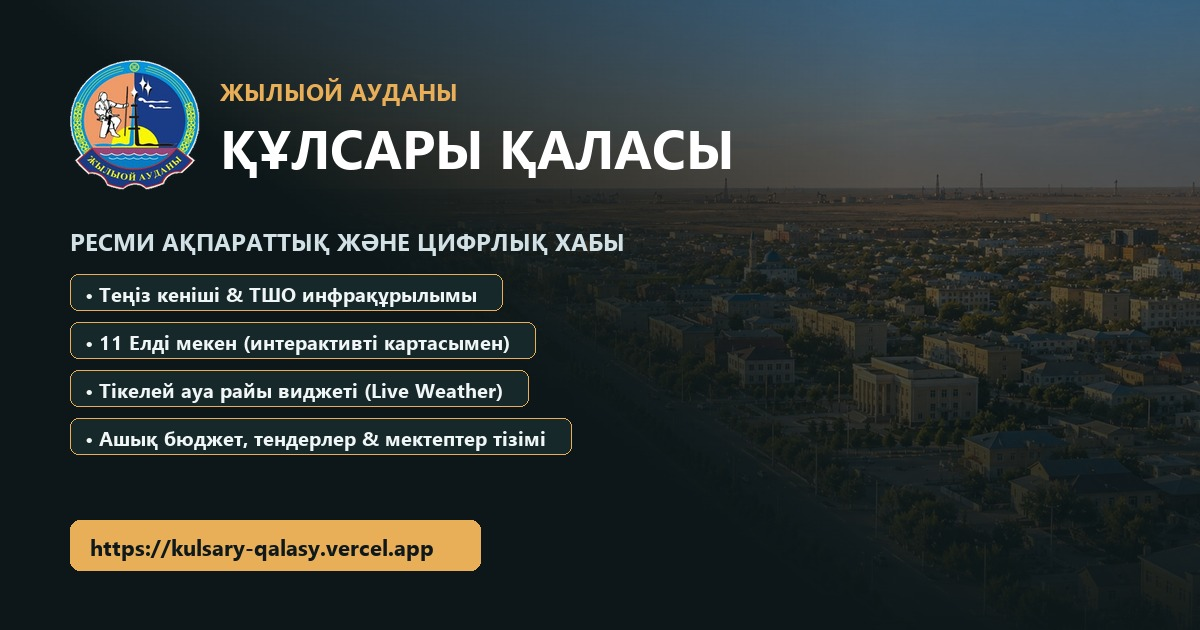
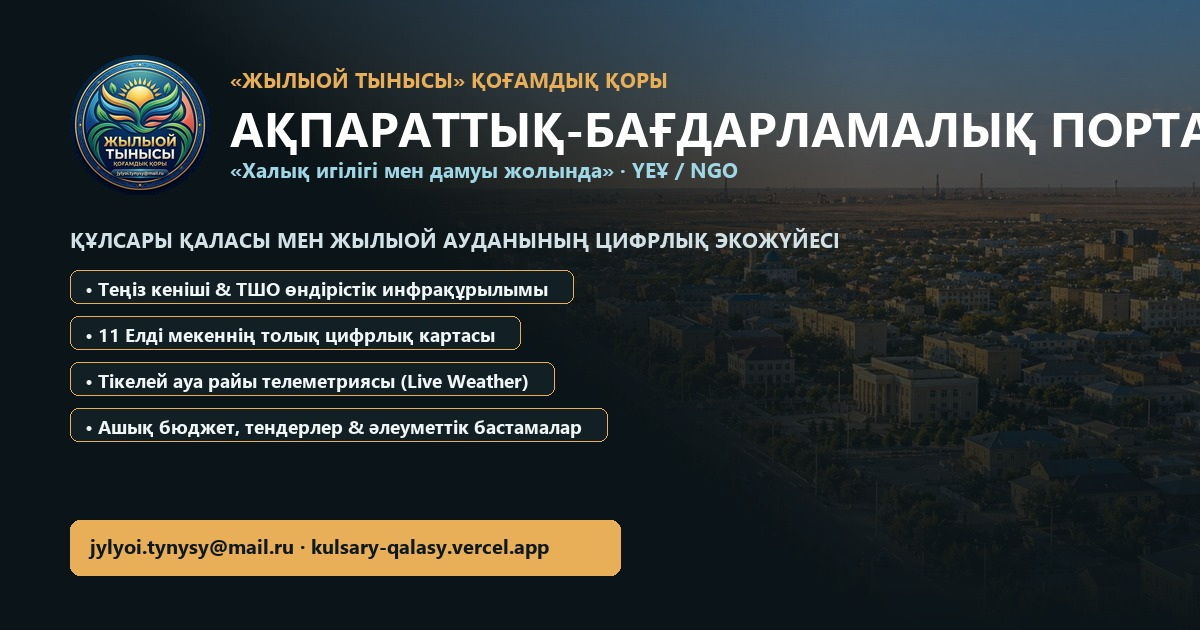
feat: rebrand to Zhylyoi Tynysy public foundation information-software platform, add official emblem, cards, and contact email

Changed region(s): [[0.0617, 0.3619, 0.7092, 0.7238], [0.0308, 0.0905, 1.0, 0.3016], [0.0617, 0.8143, 0.5242, 0.9349]]

diff --git a/src/i18n/translations.ts b/src/i18n/translations.ts
@@ -160,11 +160,11 @@ export const translations: Record<Language, Translations> = {
       toTop: "Жоғарыға",
     },
     hero: {
-      eyebrow: "Атырау облысы · Жылыой ауданы",
-      brandName: "Құлсары",
-      statement: "— Мұнайлы өлке жүрегі, тарих пен болашақ тоғысқан мекен!",
-      description: "Қасиетті мекеннен бүгінгі қала өміріне дейін - Құлсарыны бір жерден таныңыз.",
-      exploreBtn: "Қаланы таныңыз",
+      eyebrow: "«ЖЫЛЫОЙ ТЫНЫСЫ» ҚОҒАМДЫҚ ҚОРЫ · АҚПАРАТТЫҚ-БАҒДАРЛАМАЛЫҚ ПОРТАЛ",
+      brandName: "Жылыой Тынысы",
+      statement: "— Халық игілігі мен дамуы жолындағы цифрлық экожүйе!",
+      description: "Құлсары қаласы мен Жылыой ауданының біртұтас ақпараттық-бағдарламалық цифрлық порталы. Мұнайлы өлке тынысы, нақты деректер, ашық бюджет, 11 елді мекен және қоғамдық қызметтер бір жерде.",
+      exploreBtn: "Порталды танып-білу",
       mapBtn: "Картадан қарау",
       scrollDown: "ТӨМЕН ҚАРАЙ",
     },
@@ -326,14 +326,14 @@ export const translations: Record<Language, Translations> = {
       desc: "Ресми парақшалар, жергілікті жаңалықтар мен пайдалы арналар. Жеке топтарға қосыларда сілтемесін тексеріңіз.",
     },
     footer: {
-      title: "Жолымыз",
-      titleEm: "Құлсарыда тоғысады.",
-      countryText: "Қазақстан, Атырау облысы, Жылыой ауданы.",
+      title: "Жылыой Тынысы",
+      titleEm: "Қоғамдық Қоры",
+      countryText: "«Жылыой Тынысы» қоғамдық қоры — Халық игілігі мен дамуы жолында. Қазақстан, Атырау облысы, Құлсары қаласы. Электрондық пошта: jylyoi.tynysy@mail.ru",
       mapOpen: "Google Maps-та ашу",
       mapAttribution: "СХЕМАЛЫҚ КАРТА · 46.98° N",
-      copyright: "Құлсары туралы ақпараттық визитка-сайт",
-      govRef: "Ресми ақпаратты gov.kz сайтынан нақтылаңыз.",
-      photoNote: "Нақты нысан фотолары: atyrau-heritage.kz, Visit Atyrau және Жылыой ауданы әкімдігі.",
+      copyright: "«Жылыой Тынысы» қоғамдық қоры (ҮЕҰ). Ақпараттық-бағдарламалық цифрлық портал.",
+      govRef: "Ресми байланыс: jylyoi.tynysy@mail.ru",
+      photoNote: "Материалдар мен фотолар: «Жылыой Тынысы» қоғамдық қоры, Visit Atyrau және ресми дереккөздер.",
     },
     theme: {
       light: "Күндізгі",
@@ -356,11 +356,11 @@ export const translations: Record<Language, Translations> = {
       toTop: "Наверх",
     },
     hero: {
-      eyebrow: "Атырауская область · Жылыойский район",
-      brandName: "Кульсары",
-      statement: "— Сердце нефтяного края, перекрёсток истории и будущего!",
-      description: "От священных истоков до современного ритма — откройте для себя Кульсары в одном месте.",
-      exploreBtn: "Узнать город",
+      eyebrow: "ОБЩЕСТВЕННЫЙ ФОНД «ЖЫЛЫОЙ ТЫНЫСЫ» · ИНФОРМАЦИОННО-ПРОГРАММНЫЙ ПОРТАЛ",
+      brandName: "Жылыой Тынысы",
+      statement: "— Во благо народа и во имя развития региона!",
+      description: "Единая информационно-программная цифровая платформа города Кульсары и Жылыойского района. Пульс нефтяного края, объективные данные, открытый бюджет и соцпроекты.",
+      exploreBtn: "Обзор портала",
       mapBtn: "Смотреть на карте",
       scrollDown: "ВНИЗ",
     },
@@ -522,14 +522,14 @@ export const translations: Record<Language, Translations> = {
       desc: "Официальные аккаунты, городские паблики и полезные каналы.",
     },
     footer: {
-      title: "Все дороги",
-      titleEm: "ведут в Кульсары.",
-      countryText: "Казахстан, Атырауская область, Жылыойский район.",
+      title: "Жылыой Тынысы",
+      titleEm: "Общественный Фонд",
+      countryText: "Общественный фонд «Жылыой Тынысы» — Во благо народа и развития. Казахстан, Атырауская область, г. Кульсары. Email: jylyoi.tynysy@mail.ru",
       mapOpen: "Открыть в Google Maps",
       mapAttribution: "СХЕМАТИЧЕСКАЯ КАРТА · 46.98° N",
-      copyright: "Информационный сайт-визитка города Кульсары",
-      govRef: "Официальную информацию уточняйте на gov.kz",
-      photoNote: "Фотографии: atyrau-heritage.kz, Visit Atyrau и акимат Жылыойского района.",
+      copyright: "Общественный фонд «Жылыой Тынысы» (НПО). Информационно-программный портал.",
+      govRef: "Официальный контакт: jylyoi.tynysy@mail.ru",
+      photoNote: "Материалы и фотографии: Общественный фонд «Жылыой Тынысы», Visit Atyrau и открытые источники.",
     },
   },
   en: {
@@ -546,11 +546,11 @@ export const translations: Record<Language, Translations> = {
       toTop: "To top",
     },
     hero: {
-      eyebrow: "Atyrau Region · Zhylyoi District",
-      brandName: "Kulsary",
-      statement: "— The Heart of the Oil Country, where history meets the future!",
-      description: "From sacred heritage to the vibrant pulse of today — explore Kulsary in one unified guide.",
-      exploreBtn: "Discover City",
+      eyebrow: "PUBLIC FOUNDATION «ZHYLYOI TYNYSY» · INFORMATION & SOFTWARE PLATFORM",
+      brandName: "Zhylyoi Tynysy",
+      statement: "— For the Well-being and Advancement of the People!",
+      description: "Unified digital information & software platform for Kulsary and Zhylyoi District. Real-time telemetry, Tengiz oil hub, transparent budget, 11 district settlements, and community empowerment.",
+      exploreBtn: "Explore Platform",
       mapBtn: "View on Map",
       scrollDown: "SCROLL DOWN",
     },
@@ -712,14 +712,14 @@ export const translations: Record<Language, Translations> = {
       desc: "Official pages, municipal updates, and community channels.",
     },
     footer: {
-      title: "All roads",
-      titleEm: "meet in Kulsary.",
-      countryText: "Kazakhstan, Atyrau Region, Zhylyoi District.",
+      title: "Zhylyoi Tynysy",
+      titleEm: "Public Foundation",
+      countryText: "Public Foundation «Zhylyoi Tynysy» — For the well-being and advancement of the people. Kulsary, Atyrau Region, Kazakhstan. Email: jylyoi.tynysy@mail.ru",
       mapOpen: "Open in Google Maps",
       mapAttribution: "SCHEMATIC MAP · 46.98° N",
-      copyright: "Kulsary City Information Showcase",
-      govRef: "Verify official services on gov.kz",
-      photoNote: "Photos courtesy of atyrau-heritage.kz, Visit Atyrau and Zhylyoi Akimat.",
+      copyright: "Public Foundation «Zhylyoi Tynysy» (NGO). Digital Information & Software Platform.",
+      govRef: "Official contact: jylyoi.tynysy@mail.ru",
+      photoNote: "Media & photo credits: Public Foundation «Zhylyoi Tynysy», Visit Atyrau, and regional sources.",
     },
   },
 };

diff --git a/index.html b/index.html
@@ -3,13 +3,13 @@
   <head>
     <meta charset="UTF-8" />
     <meta name="viewport" content="width=device-width, initial-scale=1.0" />
-    <title>Құлсары — Жылыой ауданының жүрегі | Қалалық цифрлық хаб</title>
+    <title>Жылыой Тынысы — Ақпараттық-бағдарламалық цифрлық портал</title>
     
     <!-- Primary Meta Tags -->
-    <meta name="title" content="Құлсары — Жылыой ауданының жүрегі | Қалалық цифрлық хаб" />
-    <meta name="description" content="Құлсары қаласы мен Жылыой ауданының бас ақпараттық-цифрлық порталы. Теңіз кеніші &amp; вахталық қалашықтар, тікелей ауа райы, 11 елді мекен, ашық бюджет, мектептер мен әлеуметтік мекемелер тізімі толық бір жерде." />
-    <meta name="keywords" content="Құлсары, Кульсары, Kulsary, Жылыой ауданы, Теңіз кеніші, Tengiz, ТШО, Атырау облысы, Жаңа Қаратон, Қосшағыл, ашық бюджет, балабақша, мектептер, қалалық хаб" />
-    <meta name="author" content="Құлсары қаласы" />
+    <meta name="title" content="Жылыой Тынысы — Ақпараттық-бағдарламалық цифрлық портал" />
+    <meta name="description" content="«Жылыой Тынысы» қоғамдық қорының ресми ақпараттық-бағдарламалық цифрлық порталы. Халық игілігі мен дамуы жолында: Құлсары қаласы мен Жылыой ауданының инфрақұрылымы, Теңіз кеніші, ашық бюджет, 11 елді мекен және әлеуметтік қызметтер бір жерде." />
+    <meta name="keywords" content="Жылыой Тынысы, Қоғамдық қоры, Құлсары, Кульсары, Kulsary, Жылыой ауданы, Теңіз, Tengiz, ақпараттық-бағдарламалық портал, ашық бюджет, халық игілігі, ҮЕҰ" />
+    <meta name="author" content="«Жылыой Тынысы» қоғамдық қоры" />
     <meta name="robots" content="index, follow" />
     <meta name="theme-color" content="#17282b" />
     <link rel="canonical" href="https://kulsary-qalasy.vercel.app/" />
@@ -17,15 +17,15 @@
     <!-- Open Graph / Facebook / WhatsApp / Telegram -->
     <meta property="og:type" content="website" />
     <meta property="og:url" content="https://kulsary-qalasy.vercel.app/" />
-    <meta property="og:site_name" content="Құлсары — Жылыой порталы" />
-    <meta property="og:title" content="Құлсары — Жылыой ауданының жүрегі | Қалалық цифрлық хаб" />
-    <meta property="og:description" content="Құлсары қаласы мен Жылыой ауданының бас цифрлық порталы: Теңіз мұнай хабы, 11 елді мекен, Live ауа райы, ашық бюджет, мектептер мен тендерлер." />
+    <meta property="og:site_name" content="Жылыой Тынысы | Қоғамдық Қоры" />
+    <meta property="og:title" content="Жылыой Тынысы — Ақпараттық-бағдарламалық цифрлық портал" />
+    <meta property="og:description" content="«Жылыой Тынысы» қоғамдық қоры: Халық игілігі мен дамуы жолында. Ақпараттық-бағдарламалық цифрлық платформа." />
     <meta property="og:image" content="https://kulsary-qalasy.vercel.app/images/og-image.jpg" />
     <meta property="og:image:secure_url" content="https://kulsary-qalasy.vercel.app/images/og-image.jpg" />
     <meta property="og:image:type" content="image/jpeg" />
     <meta property="og:image:width" content="1200" />
     <meta property="og:image:height" content="630" />
-    <meta property="og:image:alt" content="Құлсары қаласы — Жылыой ауданының бас ақпараттық порталы" />
+    <meta property="og:image:alt" content="Жылыой Тынысы — Ақпараттық-бағдарламалық цифрлық портал" />
     <meta property="og:locale" content="kk_KZ" />
     <meta property="og:locale:alternate" content="ru_RU" />
     <meta property="og:locale:alternate" content="en_US" />
@@ -34,14 +34,14 @@
     <meta name="twitter:card" content="summary_large_image" />
     <meta property="twitter:domain" content="kulsary-qalasy.vercel.app" />
     <meta property="twitter:url" content="https://kulsary-qalasy.vercel.app/" />
-    <meta name="twitter:title" content="Құлсары — Жылыой ауданының жүрегі | Қалалық цифрлық хаб" />
-    <meta name="twitter:description" content="Құлсары қаласы мен Жылыой ауданының бас порталы: Теңіз мұнай хабы, 11 елді мекен, Live ауа райы, ашық бюджет, мектептер мен тендерлер." />
+    <meta name="twitter:title" content="Жылыой Тынысы — Ақпараттық-бағдарламалық цифрлық портал" />
+    <meta name="twitter:description" content="«Жылыой Тынысы» қоғамдық қоры: Халық игілігі мен дамуы жолында. Ақпараттық-бағдарламалық цифрлық платформа." />
     <meta name="twitter:image" content="https://kulsary-qalasy.vercel.app/images/og-image.jpg" />
-    <meta name="twitter:image:alt" content="Құлсары қаласы" />
+    <meta name="twitter:image:alt" content="Жылыой Тынысы" />
 
     <!-- Favicon & Icons -->
-    <link rel="icon" type="image/svg+xml" href="/favicon.svg" />
-    <link rel="apple-touch-icon" href="/images/zhylyoi-emblem.png" />
+    <link rel="icon" type="image/jpeg" href="/images/zhylyoi-tynysy-emblem.jpg" />
+    <link rel="apple-touch-icon" href="/images/zhylyoi-tynysy-emblem.jpg" />
     <link rel="preload" as="image" href="/images/qulsary-hero.jpg" />
   </head>
   <body>

diff --git a/src/components/CityHubPortal.tsx b/src/components/CityHubPortal.tsx
@@ -978,6 +978,27 @@ export function CityHubPortal() {
                 <p>{lang === "kz" ? "Жылыойдағы ЖК мен ЖШС құқығын қорғау, мемлекеттік гранттар, субсидиялар мен жеңілдетілген несиелер бойынша кеңес." : lang === "ru" ? "Поддержка предпринимателей Жылыойского района, субсидии, льготные кредиты и защита бизнеса." : "Chamber of Entrepreneurs in Zhylyoi: local business support, subsidies, and legal protection."}</p>
                 <a href="https://atameken.kz/" target="_blank" rel="noopener noreferrer" className="civil-card-link">atameken.kz <ExternalLink size={13} /></a>
               </div>
+
+              <div className="civil-card" style={{ border: "1.5px solid var(--gold)", background: "linear-gradient(135deg, rgba(232, 174, 88, 0.1) 0%, rgba(16, 30, 34, 0.95) 100%)" }}>
+                <div className="civil-card-num" style={{ background: "var(--gold)", color: "#101e22" }}>04</div>
+                <div style={{ display: "flex", alignItems: "center", gap: "10px", marginBottom: "8px" }}>
+                  <img src="/images/zhylyoi-tynysy-emblem.jpg" alt="«Жылыой Тынысы» логотипі" style={{ width: "36px", height: "36px", borderRadius: "50%", objectFit: "cover", border: "1.5px solid var(--gold)" }} />
+                  <h4 style={{ margin: 0, color: "var(--gold)" }}>«Жылыой Тынысы» Қоғамдық Қоры</h4>
+                </div>
+                <p>
+                  {lang === "kz"
+                    ? "Үкіметтік емес ұйым (ҮЕҰ). «Халық игілігі мен дамуы жолында» ұранымен аймақтағы әлеуметтік, ақпараттық және қайырымдылық бастамаларды үйлестіруші орталық."
+                    : lang === "ru"
+                    ? "Неправительственная организация (НПО). Объединение социальных, информационных и благотворительных инициатив под девизом «Во благо народа и развития»."
+                    : "Non-Governmental Organization (NGO). Coordinating public, social and technological initiatives under the motto «For the Well-being and Advancement of the People»."}
+                </p>
+                <div style={{ display: "flex", flexWrap: "wrap", gap: "10px", marginTop: "12px", alignItems: "center" }}>
+                  <a href="mailto:jylyoi.tynysy@mail.ru" className="civil-card-link" style={{ background: "var(--gold)", color: "#101e22", padding: "6px 12px", borderRadius: "6px", fontWeight: 800, textDecoration: "none" }}>
+                    ✉ jylyoi.tynysy@mail.ru
+                  </a>
+                  <span style={{ fontSize: "11px", color: "rgba(255,255,255,0.75)", fontWeight: 700 }}>ҮЕҰ / NGO · РЕСМИ</span>
+                </div>
+              </div>
             </div>
           </div>
         )}

diff --git a/src/App.tsx b/src/App.tsx
@@ -36,15 +36,16 @@ const mapDirections = (origin: string) =>
 
 function Brand({ onClick }: { onClick?: () => void }) {
   return (
-    <a className="brand" href="#home" aria-label="Құлсары - басты бет" onClick={onClick}>
+    <a className="brand" href="#home" aria-label="Жылыой Тынысы - басты бет" onClick={onClick}>
       <img
-        src="/images/zhylyoi-emblem.png"
-        alt="Жылыой ауданының елтаңбасы"
+        src="/images/zhylyoi-tynysy-emblem.jpg"
+        alt="«Жылыой Тынысы» қоғамдық қорының эмблемасы"
         className="brand-emblem-img"
+        style={{ borderRadius: "50%", objectFit: "cover", border: "2px solid var(--gold)" }}
       />
       <span className="brand-words">
-        <strong>ҚҰЛСАРЫ</strong>
-        <small>ЖЫЛЫОЙ · АТЫРАУ</small>
+        <strong>ЖЫЛЫОЙ ТЫНЫСЫ</strong>
+        <small>ҚОҒАМДЫҚ ҚОРЫ · ЦИФРЛЫҚ ПОРТАЛ</small>
       </span>
     </a>
   );
@@ -297,6 +298,14 @@ function AppMain() {
   ];
 
   const socialLinks = [
+    {
+      icon: MessageCircle,
+      platform: "РЕСМИ БАЙЛАНЫС / ҮЕҰ",
+      title: "«Жылыой Тынысы» Қоғамдық Қоры",
+      detail: "jylyoi.tynysy@mail.ru · Халық игілігі мен дамуы жолында",
+      href: "mailto:jylyoi.tynysy@mail.ru",
+      color: "#E8AE58",
+    },
     {
       icon: BlueskyIcon,
       platform: "BLUESKY · AT PROTOCOL (ЖАҢА ДӘУІР)",
